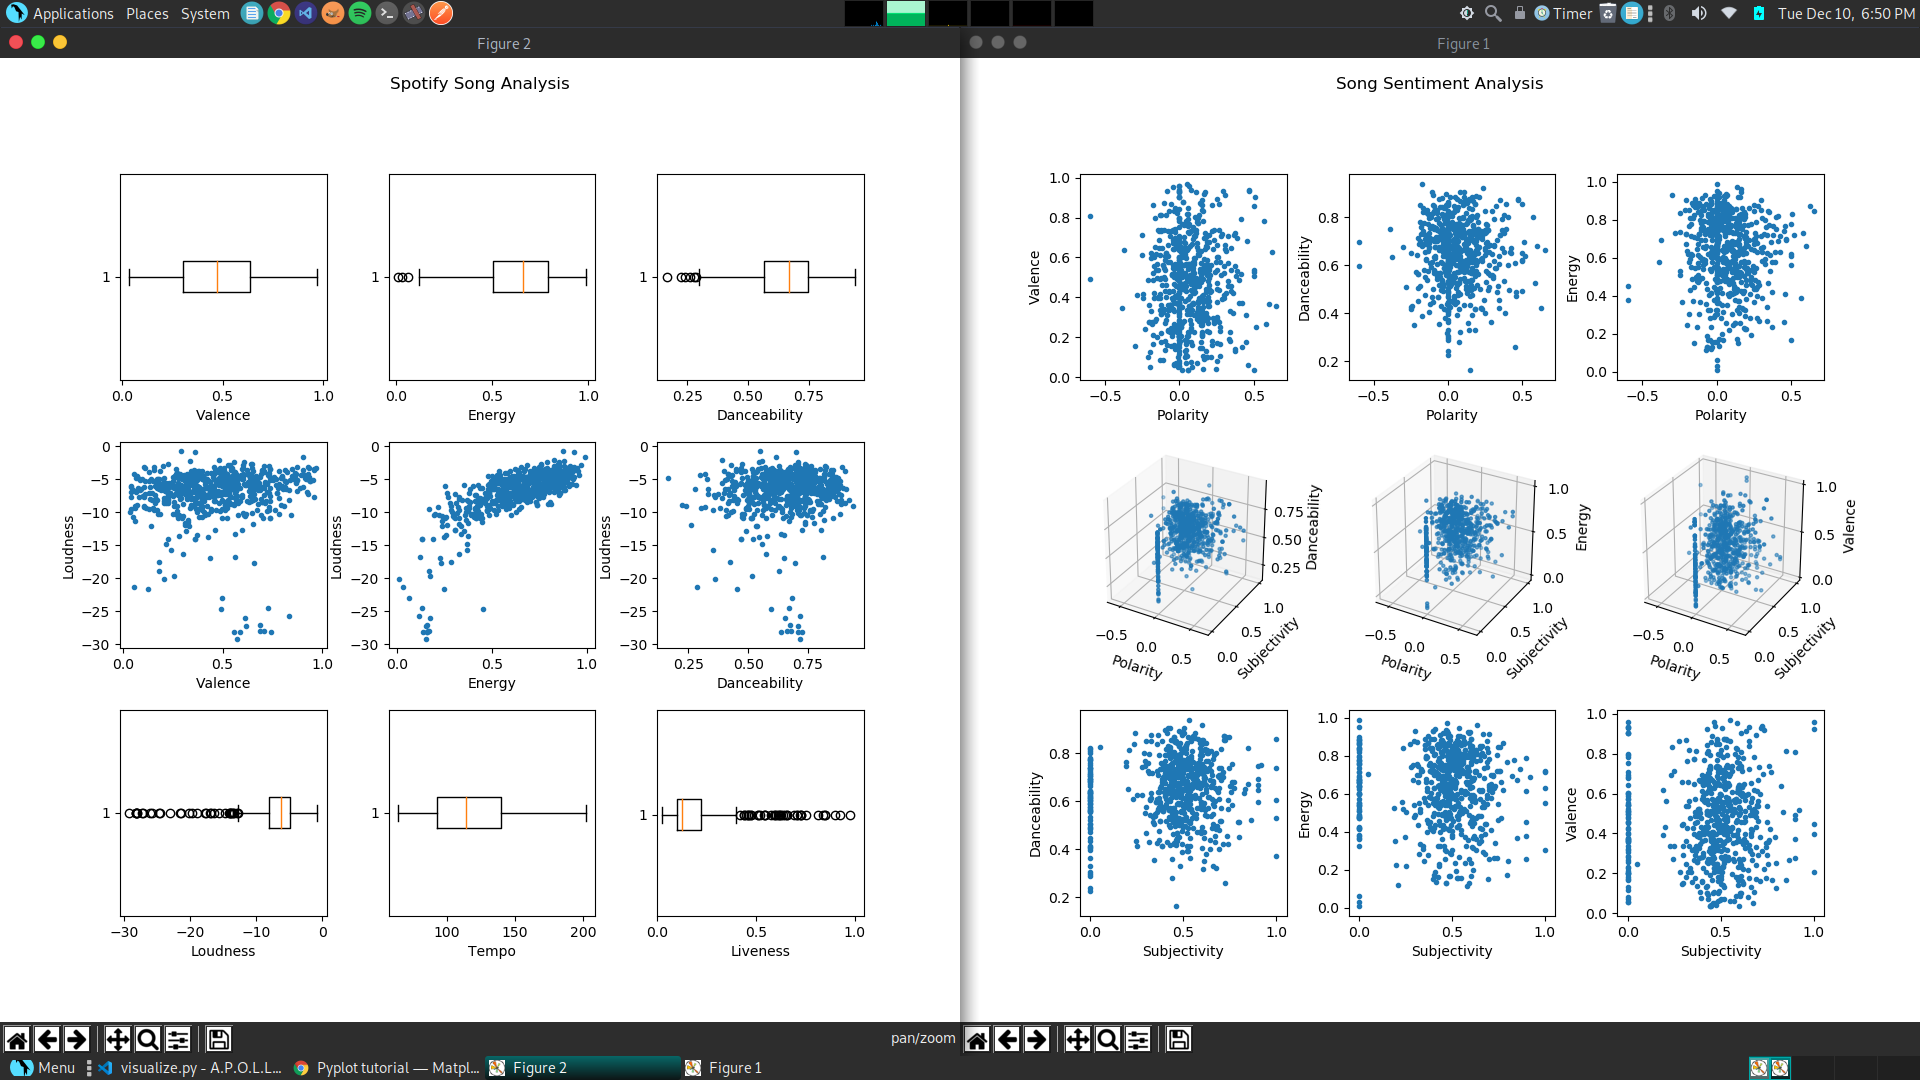
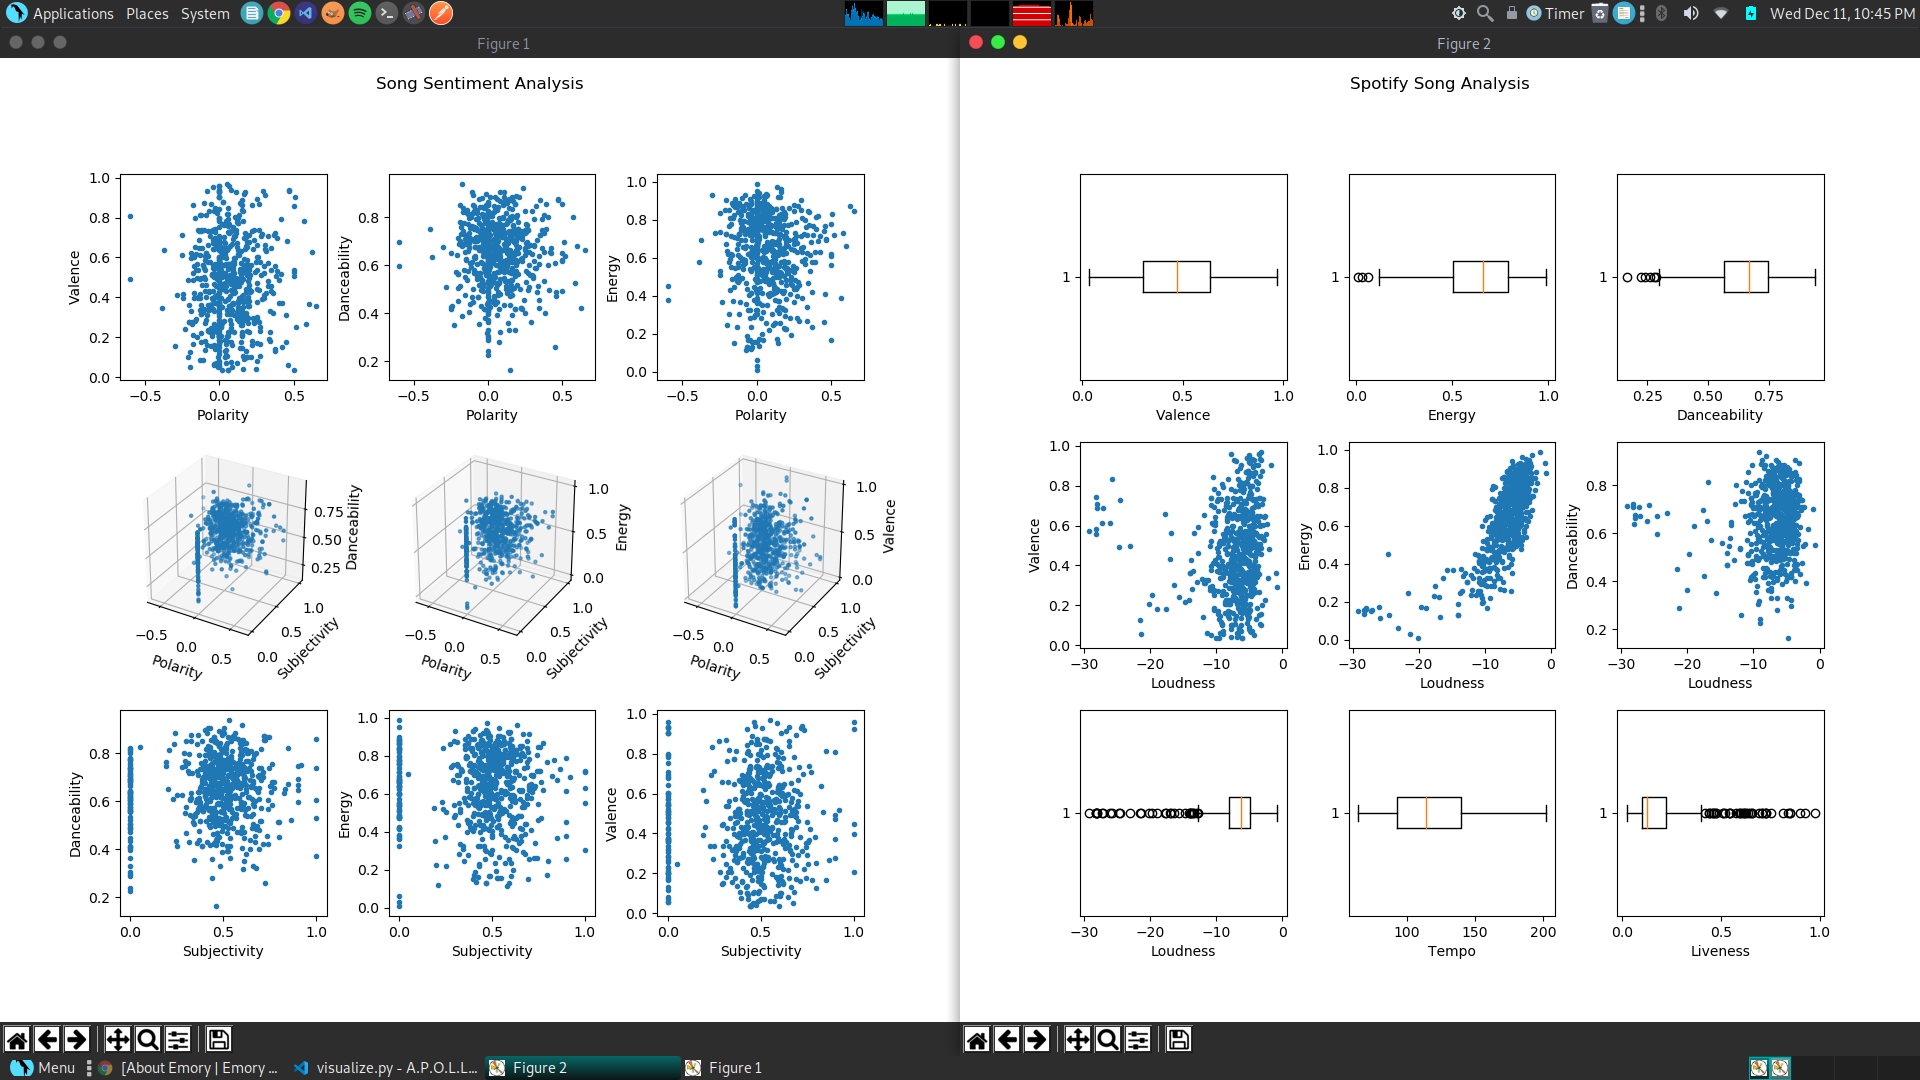
updated x on loudness graphs

diff --git a/learning/NeuralNetworks/SpotifyNN/StatsProject/visualize.py b/learning/NeuralNetworks/SpotifyNN/StatsProject/visualize.py
@@ -112,19 +112,19 @@ ax.boxplot(d, vert=False)
 ax.set_xlabel("Danceability")
 
 ax = fig2.add_subplot(334)
-ax.scatter(v, l, marker=".")
-ax.set_xlabel("Valence")
-ax.set_ylabel("Loudness")
+ax.scatter(l, v, marker=".")
+ax.set_xlabel("Loudness")
+ax.set_ylabel("Valence")
 
 ax = fig2.add_subplot(335)
-ax.scatter(e, l, marker=".")
-ax.set_xlabel("Energy")
-ax.set_ylabel("Loudness")
+ax.scatter(l, e, marker=".")
+ax.set_xlabel("Loudness")
+ax.set_ylabel("Energy")
 
 ax = fig2.add_subplot(336)
-ax.scatter(d, l, marker=".")
-ax.set_xlabel("Danceability")
-ax.set_ylabel("Loudness")
+ax.scatter(l, d, marker=".")
+ax.set_xlabel("Loudness")
+ax.set_ylabel("Danceability")
 
 ax = fig2.add_subplot(337)
 ax.boxplot(l, vert=False)
